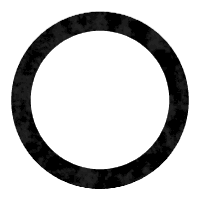
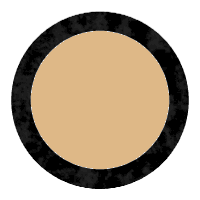
inform size under picked piece

diff --git a/game_gui.c b/game_gui.c
@@ -271,10 +271,19 @@ int initial_piece_clicked(Env *env, int x, int y) {
 }
 
 void clear_screen(Env *env) {
+    SDL_Rect rect;
+
     /* background in gray */
-    SDL_RenderCopy(env->renderer, env->background, NULL, NULL);
-    //SDL_SetRenderDrawColor(env->renderer, 160, 160, 160, 255); 
-    //SDL_RenderClear(env->renderer);
+    SDL_SetRenderDrawColor(env->renderer, 160, 160, 160, 255); 
+    SDL_RenderClear(env->renderer);
+
+    if (env->disp_stage == PLACEMENT || env->disp_stage == INGAME) {
+        rect.x = MARGIN_LEFT - 10;
+        rect.y = MARGIN_TOP - 10;
+        rect.h = DIMENSION*env->cell_size + 20;
+        rect.w = DIMENSION*env->cell_size + 20;
+        SDL_RenderCopy(env->renderer, env->background, NULL, &rect);
+    }    
 }
 
 void init_background(Env *env) {
@@ -430,7 +439,6 @@ void destroy_env(Env *env) {
     free(env);
 }
 
-
 void disp_message(Env *env) {
     if (env->message[0] == 0) { // message == ""
         return;
@@ -517,7 +525,10 @@ void choose_direction(Env *env, SDL_Event *event) {
         cancel_step(env->game);
     }
     else if (dir_clicked != -1 && move_piece(env->game, dir_clicked) == OK) {
-        if (movement_left(env->game) == -1) {
+        if (movement_left(env->game) == 0) {
+            sprintf(env->message, "Tu es sur une pièce de taille %d.", get_piece_size(env->game, picked_piece_line(env->game), picked_piece_column(env->game)));
+        }
+        else if (movement_left(env->game) == -1) {
             if (get_winner(env->game) == NO_PLAYER) {
                 env->current_player = next_player(env->current_player);
                 sprintf(env->message, "À ton tour %s", player_name(env, env->current_player));
